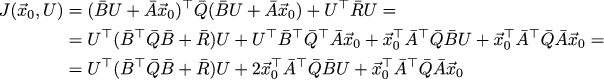
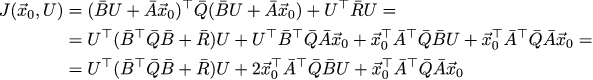
bugfix

Changed region(s): [[0.0911, 0.35, 1.0, 0.625], [0.1214, 0.725, 0.7892, 1.0], [0.0, 0.0, 0.6678, 0.25]]

diff --git a/tutorials/lqr2-observer/f110.tex b/tutorials/lqr2-observer/f110.tex
@@ -5,7 +5,7 @@
 
 \begin{align*}
 J(\vec{x}_0, U) & = (\bar{B}U + \bar{A}\vec{x}_0)^\top\bar{Q}(\bar{B}U + \bar{A}\vec{x}_0)+U^\top\bar{R}U=\\
-& = U^\top(\bar{B}^\top\bar{Q}\bar{B} + \bar{R})U + U^\top \bar{B}^\top \bar{Q}^\top \bar{A}\vec{x}_0 + \vec{x}_0^\top \bar{A}^\top \bar{Q} \bar{B} U + \vec{x}_0^\top \bar{A}^\top \bar{Q} \bar{A} \vec{x}_0 = \\
+& = U^\top(\bar{B}^\top\bar{Q}\bar{B} + \bar{R})U + U^\top \bar{B}^\top \bar{Q} \bar{A}\vec{x}_0 + \vec{x}_0^\top \bar{A}^\top \bar{Q} \bar{B} U + \vec{x}_0^\top \bar{A}^\top \bar{Q} \bar{A} \vec{x}_0 = \\
 & = U^\top(\bar{B}^\top\bar{Q}\bar{B} + \bar{R})U + 2 \vec{x}_0^\top \bar{A}^\top \bar{Q} \bar{B} U + \vec{x}_0^\top \bar{A}^\top \bar{Q} \bar{A} \vec{x}_0 
 \end{align*}
 
